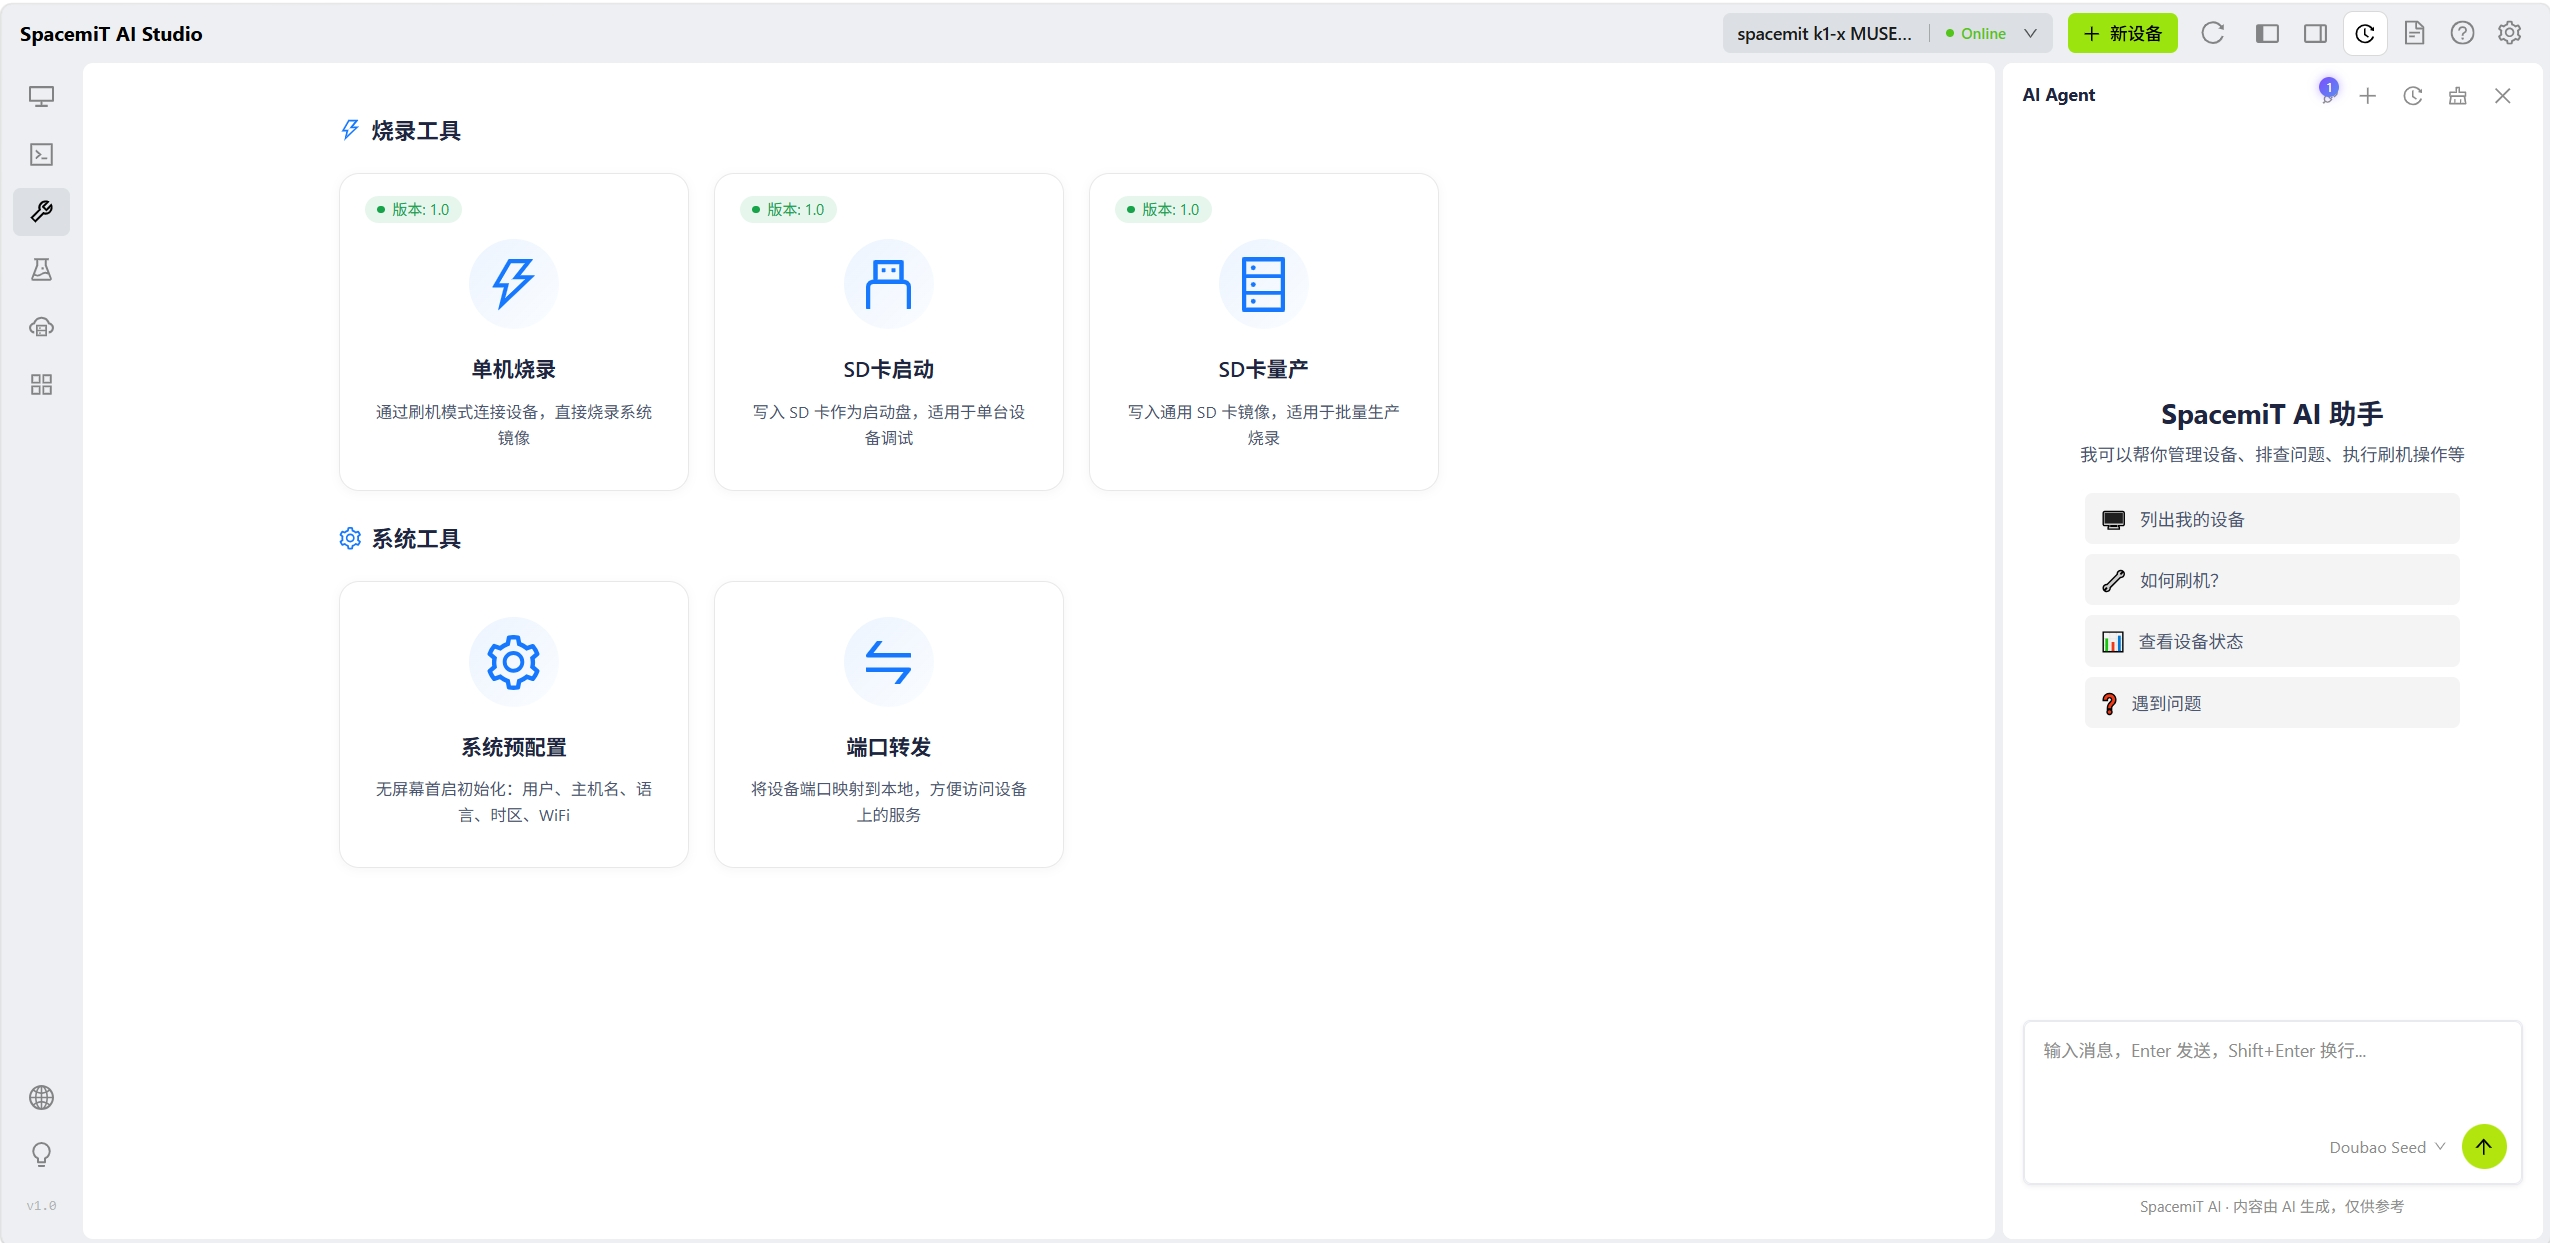
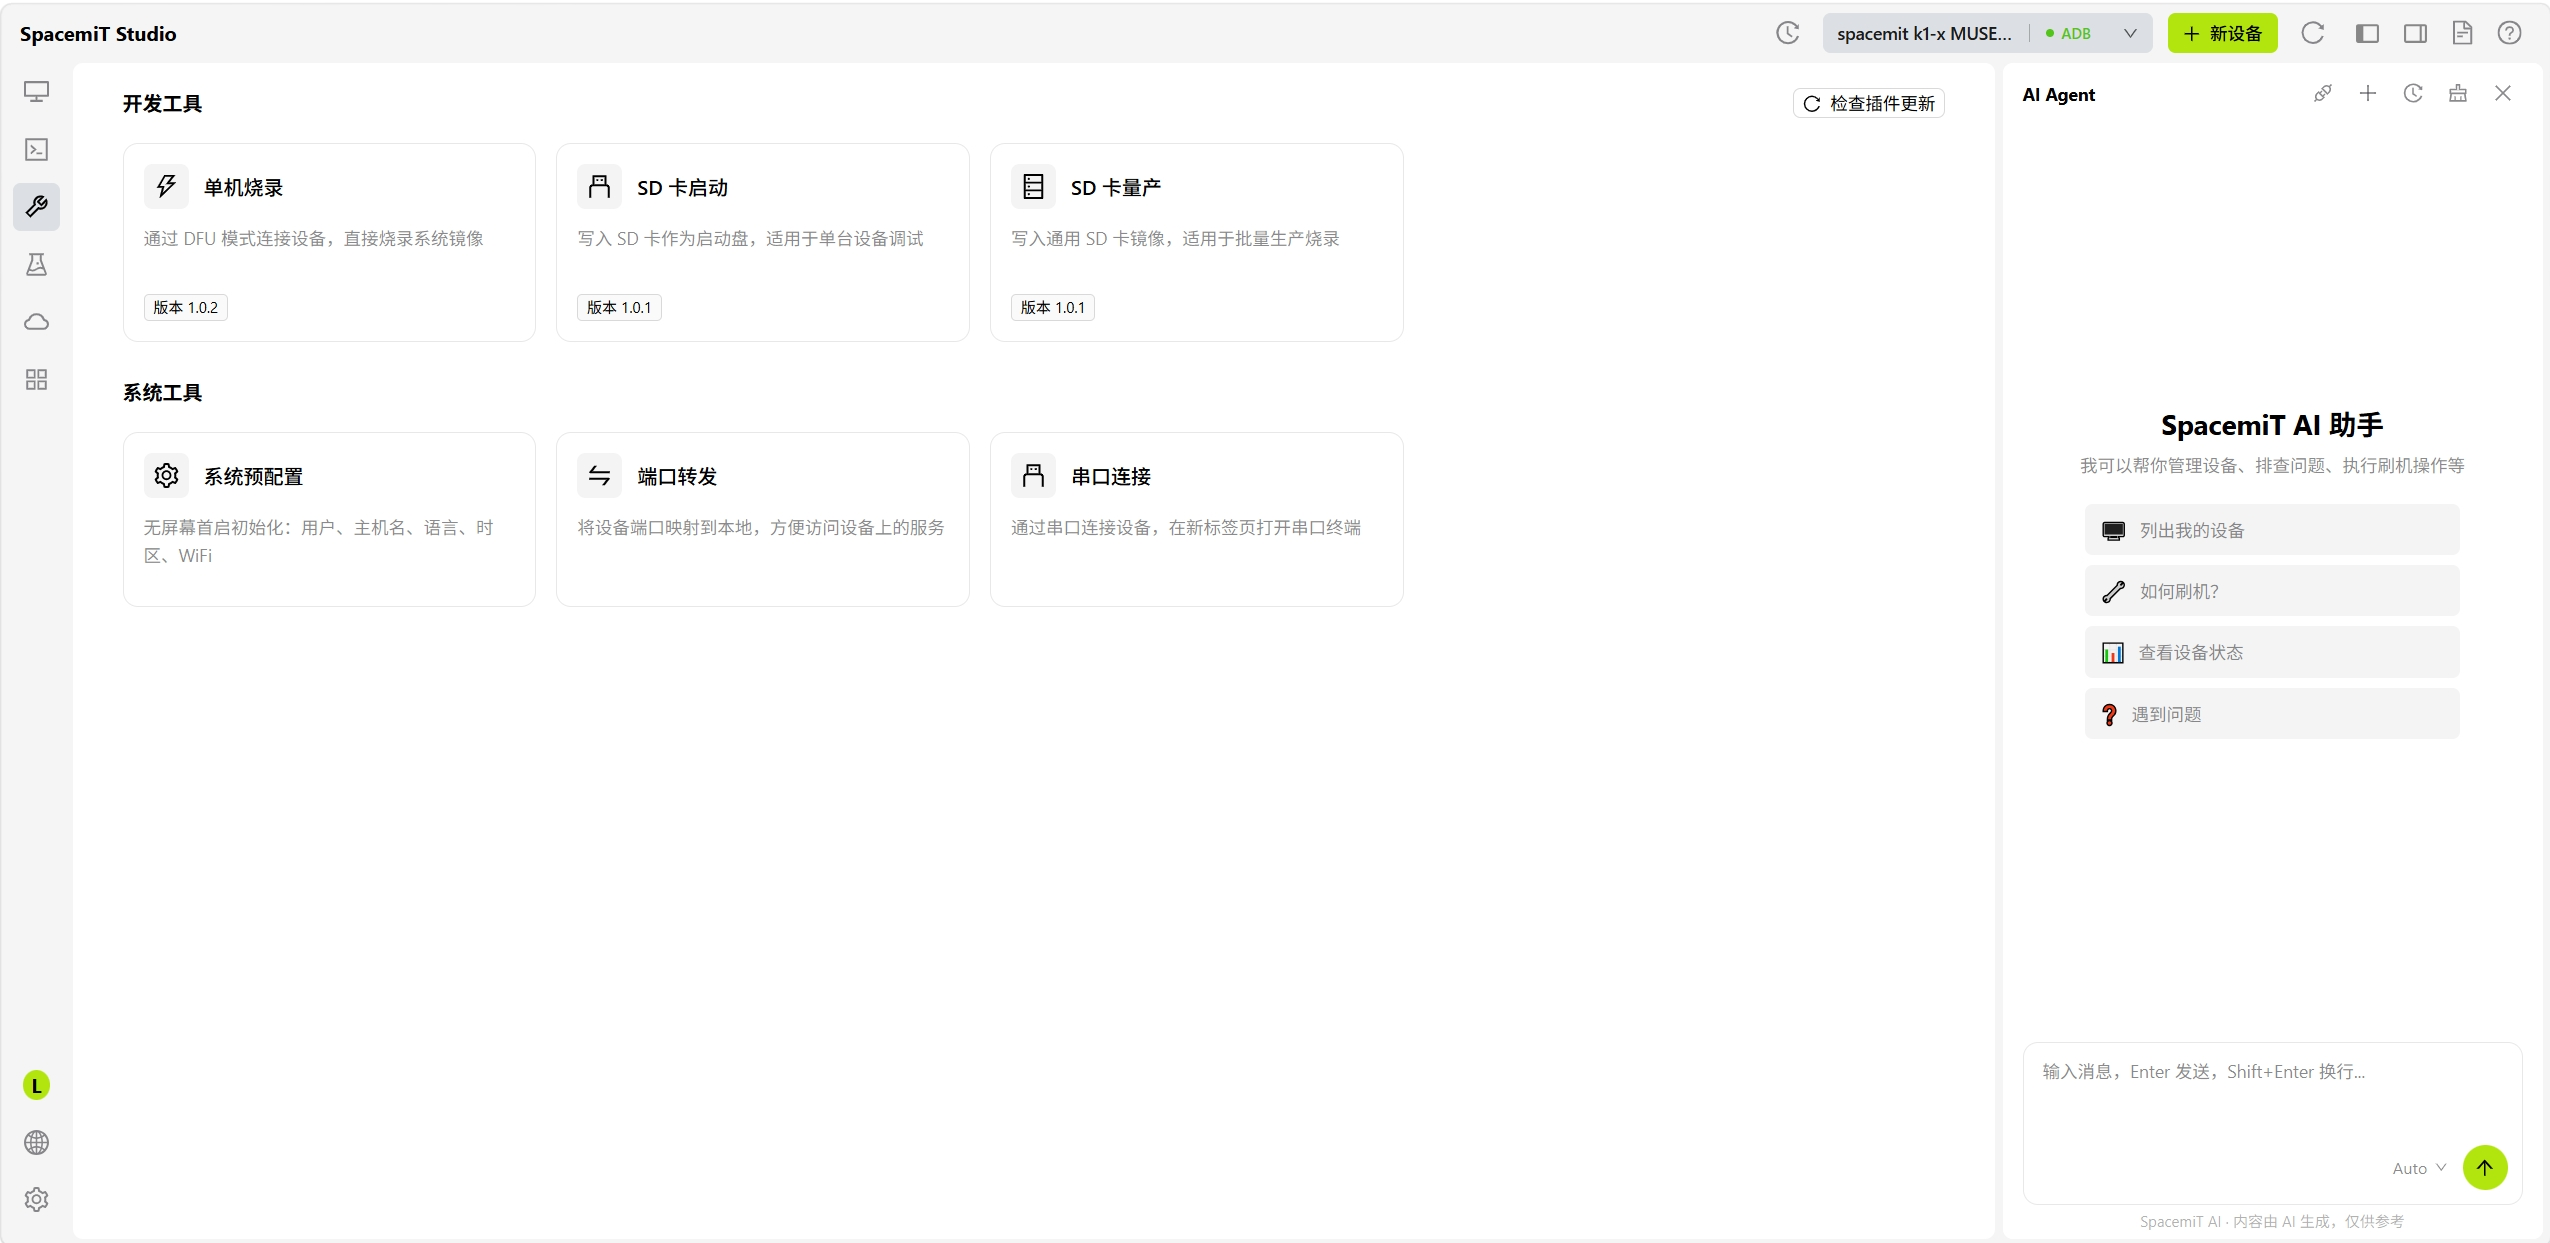
studio-updated

diff --git a/en/studio/user_guide/dev_tools/index.md b/en/studio/user_guide/dev_tools/index.md
@@ -8,17 +8,8 @@ sidebar_position: 3
 
 ![开发工具页面](../../static/tool_00.png)
 
-## 烧录工具
+- [烧录工具](./flash.md)：
+  单机烧录、SD 卡启动、SD 卡量产
 
-| 工具 | 说明 |
-| ------------------------------------ | -------------------------------------- |
-| [单机烧录](./flash.md#单机烧录) | 通过刷机模式连接设备，直接烧录系统镜像 |
-| [SD 卡启动](./flash.md#sd-卡启动) | 写入 SD 卡作为启动盘，适用于单台设备调试 |
-| [SD 卡量产](./flash.md#sd-卡量产) | 写入通用 SD 卡镜像，适用于批量生产烧录 |
-
-## 系统工具
-
-| 工具 | 说明 |
-| --------------------------------------------- | ------------------------------------------------ |
-| [系统预配置](./system_tools.md#系统预配置) | 无屏幕首启初始化：用户、主机名、语言、时区、WiFi |
-| [端口转发](./system_tools.md#端口转发) | 将设备端口映射到本地，方便访问设备上的服务 |
+- [系统工具](./system_tools.md)
+  系统预配置、端口转发、串口连接

diff --git a/zh/studio/user_guide/dev_tools/index.md b/zh/studio/user_guide/dev_tools/index.md
@@ -8,17 +8,8 @@ sidebar_position: 3
 
 ![开发工具页面](../../static/tool_00.png)
 
-## 烧录工具
+- [烧录工具](./flash.md)：
+  单机烧录、SD 卡启动、SD 卡量产
 
-| 工具 | 说明 |
-| ------------------------------------ | -------------------------------------- |
-| [单机烧录](./flash.md#单机烧录) | 通过刷机模式连接设备，直接烧录系统镜像 |
-| [SD 卡启动](./flash.md#sd-卡启动) | 写入 SD 卡作为启动盘，适用于单台设备调试 |
-| [SD 卡量产](./flash.md#sd-卡量产) | 写入通用 SD 卡镜像，适用于批量生产烧录 |
-
-## 系统工具
-
-| 工具 | 说明 |
-| --------------------------------------------- | ------------------------------------------------ |
-| [系统预配置](./system_tools.md#系统预配置) | 无屏幕首启初始化：用户、主机名、语言、时区、WiFi |
-| [端口转发](./system_tools.md#端口转发) | 将设备端口映射到本地，方便访问设备上的服务 |
+- [系统工具](./system_tools.md)
+  系统预配置、端口转发、串口连接

diff --git a/en/studio/user_guide/ai.md b/en/studio/user_guide/ai.md
@@ -50,4 +50,4 @@ AI 助手面板顶部工具栏从左到右依次为：
 - **描述**：技能的功能说明
 - **Prompt**：定义技能行为的系统提示词
 
-填写完成后点击确认，即可创建自定义技能。
+填写完成后点击**确认**，即可创建自定义技能。

diff --git a/zh/studio/user_guide/ai.md b/zh/studio/user_guide/ai.md
@@ -50,4 +50,4 @@ AI 助手面板顶部工具栏从左到右依次为：
 - **描述**：技能的功能说明
 - **Prompt**：定义技能行为的系统提示词
 
-填写完成后点击确认，即可创建自定义技能。
+填写完成后点击**确认**，即可创建自定义技能。